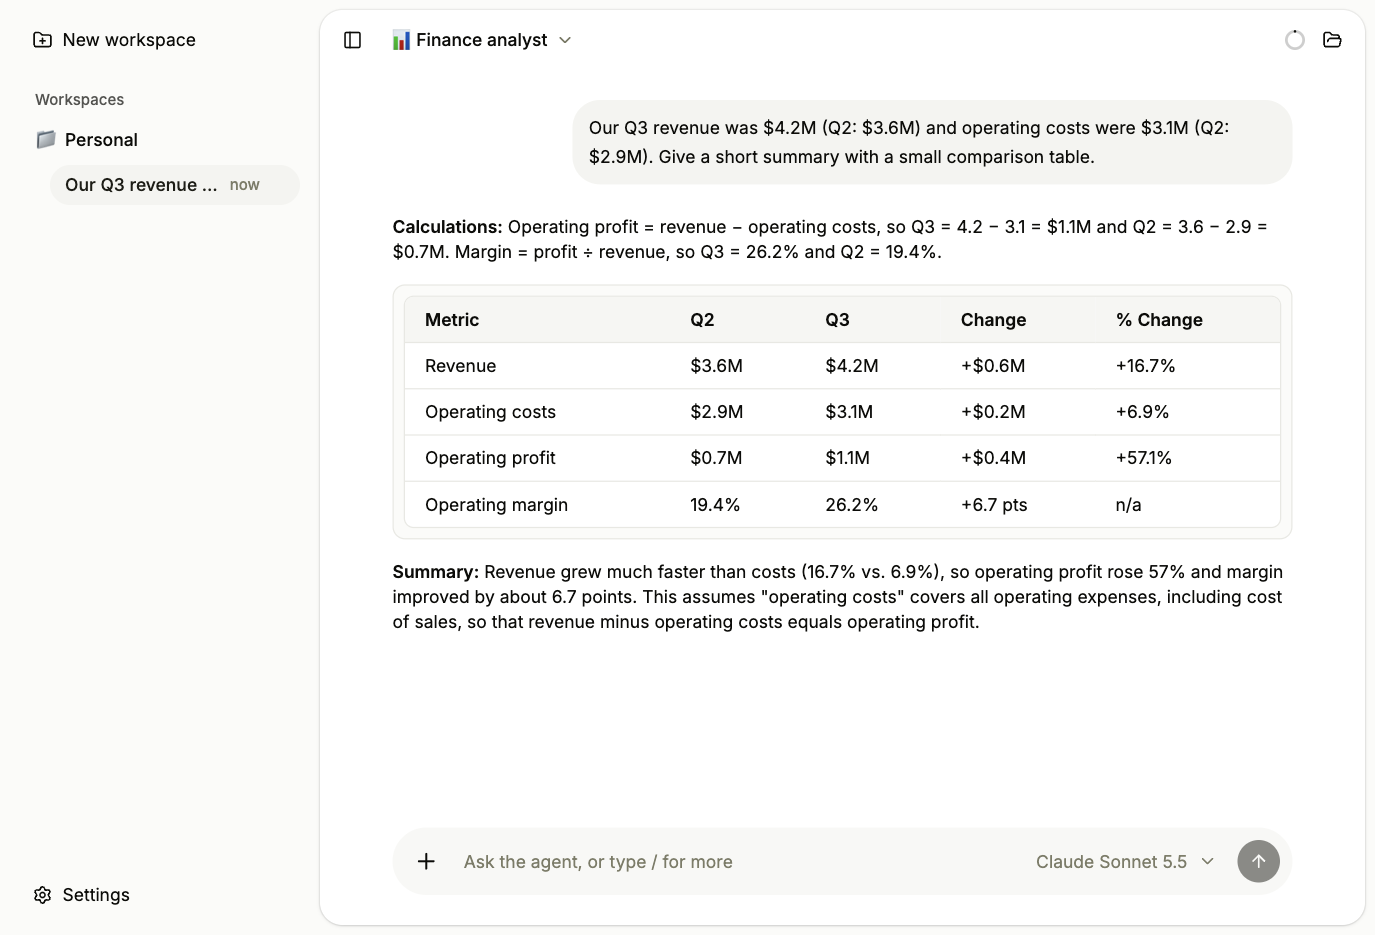
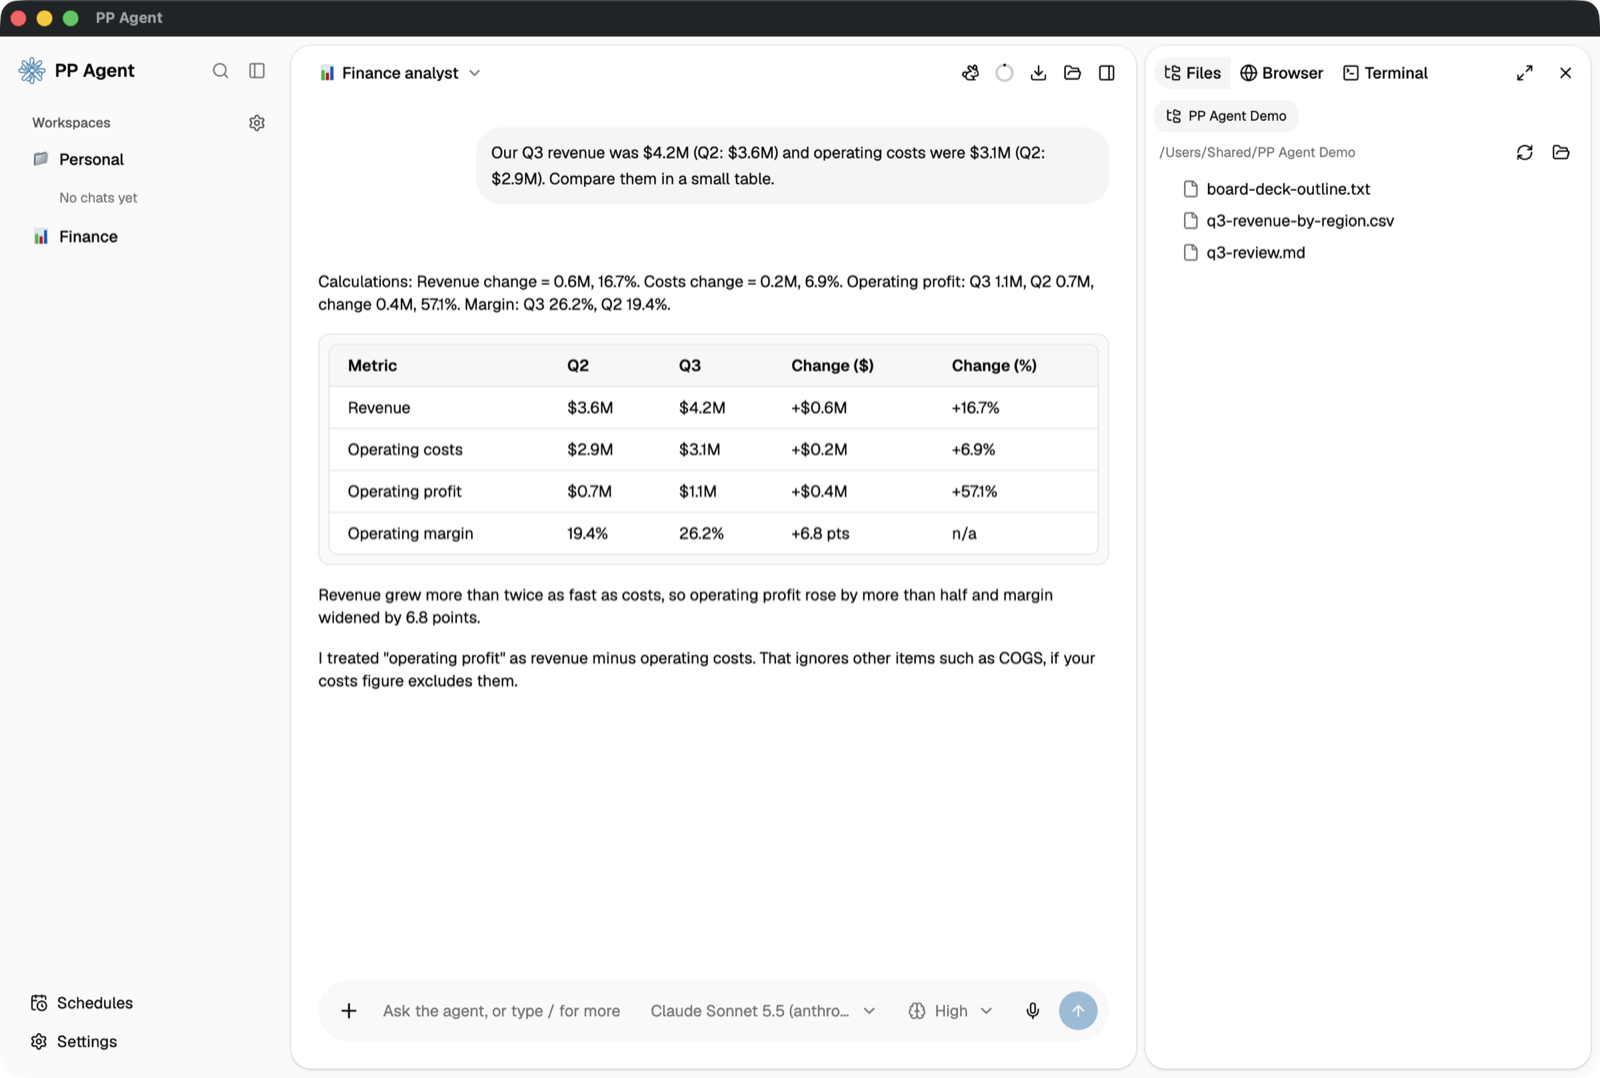
docs(readme): document side panel, computer use, /goal and /yolo
- Add feature entries for the side panel (terminal, files, browser),
  browser and desktop app control, and long-running tasks with `/goal`
  and parallel sub agents.
- Mention `/yolo` in the approvals entry.
- Refresh the README screenshot to match the current UI.

diff --git a/README.md b/README.md
@@ -22,11 +22,14 @@ Coding agents are powerful but built for developers. PP Agent puts the same engi
 ## Features
 
 - **Chat with documents.** Attach or drop files and paste images. The agent reads PDF, Word, Excel, PowerPoint, OpenDocument, RTF, EPUB, HTML, and CSV.
+- **Side panel.** A panel beside the chat (Cmd+J / Ctrl+J) with a **Terminal** in the workspace folder, a **Files** browser with previews and attach-to-message, and a **Browser** with separate sign-in profiles; import cookies from Chrome, Edge, Brave, Arc, Chromium, or Firefox to stay signed in.
+- **Browser and desktop apps.** The agent can fill in forms, check dashboards, and collect information in the side-panel browser, and on macOS and Windows it can use desktop apps (**Settings › Computer use**). Looking runs freely; clicking and typing ask first, and PP Agent itself, terminals, and password settings are always off limits.
+- **Long tasks.** `/goal` keeps the agent working turn after turn until the goal is done, with a banner to pause, resume, or clear it. It can also hand up to five read-only research tasks to sub agents that work at the same time. Its checklist stays pinned above the message box.
 - **Web search.** The agent can search the web and read pages, PDFs, and Office files from the internet. Pick and order the search services in **Settings › Tools › Web search**: SearXNG (self-hosted), Serper, Tavily, Brave Search, Exa, webclaw, or DuckDuckGo; it falls back to the next one when a service fails. It also works with no setup at all: without a key it uses Exa and DuckDuckGo, after any service you set up. Pages on private networks are never opened.
 - **Agents.** Profiles with their own rules, icon, tools, MCP servers, skills, model, starter prompts, and workspace folder. Switch mid-conversation; share them as `.json` files.
 - **Any model.** Sign in to Pi's built-in providers (Anthropic, OpenAI, Google, OpenRouter, Mistral, Groq, and more) with an API key, or add your own OpenAI- or Anthropic-compatible gateways. Choose the model and thinking level per conversation.
 - **Business systems through MCP.** Add, edit, and monitor [MCP](https://modelcontextprotocol.io) servers in Settings, including OAuth sign-in. Paste configurations from Claude Desktop or Cursor.
-- **Approvals you control.** Read-only actions run freely; saving files, shell commands, and actions that change data in your systems ask first. Each tool can be set to automatic, always ask, always allow, or off. Shell commands are off by default and can be set to run without asking, after a confirmation and with a standing warning in Settings.
+- **Approvals you control.** Read-only actions run freely; saving files, shell commands, and actions that change data in your systems ask first. Each tool can be set to automatic, always ask, always allow, or off. Shell commands are off by default and can be set to run without asking, after a confirmation and with a standing warning in Settings. `/yolo` (or **Settings › Tools**) skips the approval step for everything already allowed.
 - **Create and edit Office files.** The agent builds and changes Word, Excel, and PowerPoint files in your workspace with the bundled [OfficeCLI](https://github.com/iOfficeAI/OfficeCLI); saving asks first.
 - **Chat history.** Search past chats, pin them, export to Markdown or HTML, copy, edit and resend a message, regenerate an answer, branch a chat, and see token use and estimated cost.
 - **Memory, checklists, helpers.** The agent keeps notes between chats (view and edit them in **Settings › Memory**), tracks multi-step work in a checklist, and hands research to a read-only helper.
